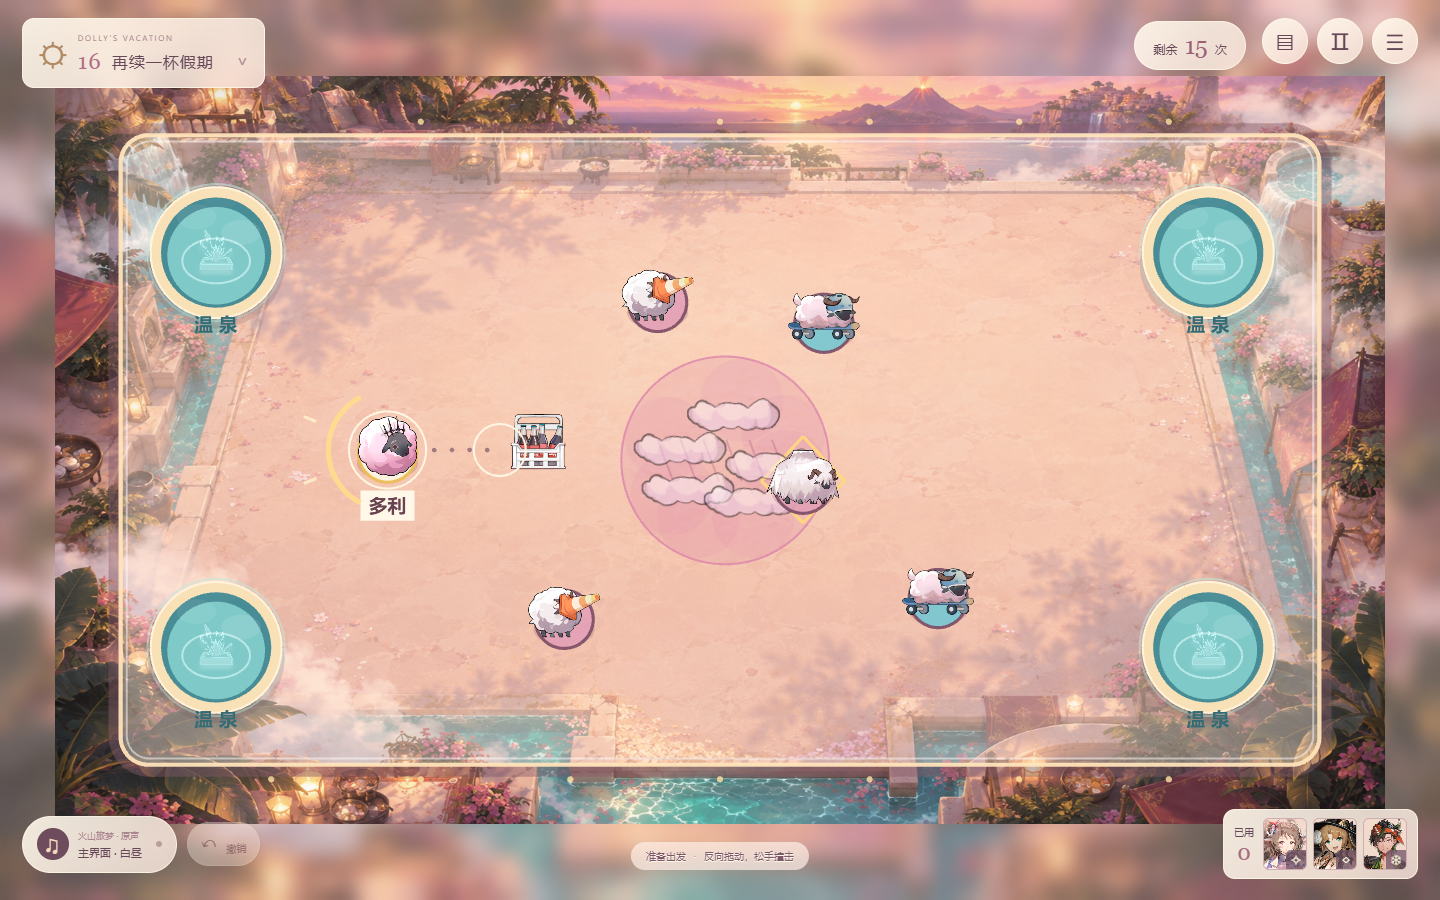
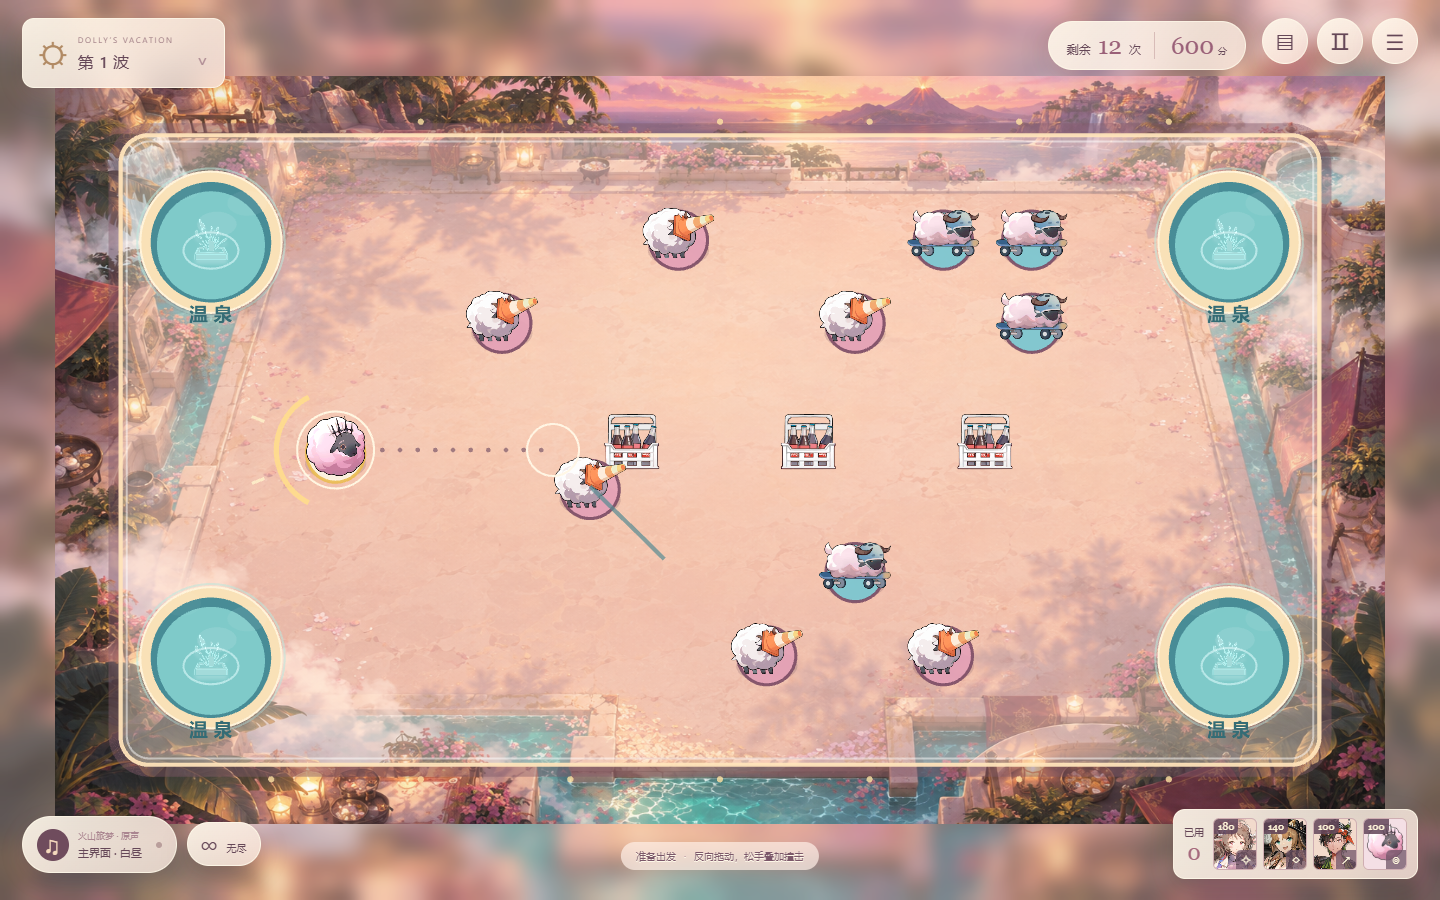
Document endless mode and refresh game screenshots

diff --git a/README.md b/README.md
@@ -1,34 +1,54 @@
 # 多利的假期 · Dolly’s Vacation
 
-以《明日方舟》「火山旅梦」为主题的免费同人 2D 碰撞游戏。控制多利，将毛绒绒的小羊送入温泉，和同行干员一起完成 16 站假日旅程。
+以《明日方舟》「火山旅梦」为主题的免费同人 2D 碰撞游戏。控制多利，把小羊送入温泉，用连锁爆破、双色水汽和高压水渠组合清场。
 
 **[开始游戏](https://midvoy.github.io/DollyVacation/)**
 
-![多利的假期：温泉场地与小羊](docs/screenshots/desktop.png)
+![无尽假期：温泉、羊群与连锁汽水](docs/screenshots/desktop.png)
 
 ## 操作方式
 
-1. 在场地内按住鼠标或触摸屏，朝想要前进方向的反方向拖动。
-2. 拖动距离决定撞击力度，松手后多利向前出发。蓄力条仅在拖动时显示。
-3. 将所有小羊送入任意温泉即可通关。所有泉口通用，无需区分小羊类型。
-4. 右上角可查看图鉴、暂停和打开菜单；左下角切换音乐或撤销上一次撞击。
+1. 在场地内按住鼠标或触摸屏，向前进方向的反方向拖动，松手施加撞击。拉得越远，冲量越大。
+2. 每次发射后 **10 秒**，或全场停稳后，即可再次发射。运动中补发会叠加原有动量；反向撞击也可用于刹车。多利周围的环显示冷却进度，球体下方不显示标签。
+3. 所有泉口通用。把目标小羊全部送入温泉，即可完成关卡或进入下一波。
+4. 左下角 **∞** 可直接进入无尽模式，无需通关。唱片按钮切换音乐；右上角查看图鉴、暂停或打开菜单。
 
-电脑支持方向键微调、空格撞击与 Esc 暂停。手机支持横竖屏游玩，界面上下各保留一行控件。
+电脑也支持方向键微调、空格撞击和 Esc 暂停。手机支持横竖屏，上下各保留一行主要控件。虚线表示叠加后的初始方向，不预测后续力场。游戏不提供撤销。
 
-## 玩法特点
+## 无尽假期
 
-- **16 关温泉旅程**：直线碰撞、池边反弹、连锁传力、汽水净化与护罩接力。
-- **不同特性的小羊**：温泉“淘气包”阻力均衡；温泉“流浪汉”阻力较低、滑行更远；“大个子”需要先撞破护罩。
-- **干员援助**：纯烬艾雅法拉净化水汽并免除当次多利落泉的额外消耗，琳琅诗怀雅放置反弹挡板，苍苔设置冷凝区。援助不限使用次数，首次使用后固定本关同行干员。
-- **场地与效果图鉴**：查看温泉、汽水、洋红蒸汽、纯白水汽、冷凝区和挡板的规则。
-- **活动原声**：5 首原版主界面与战斗 BGM，可切换曲目、调节音量并单曲循环。
-- **星级与存档**：完成关卡、控制撞击次数及达成额外挑战获得星星；进度和设置保存在当前浏览器。
+- 初始 **12 次撞击、600 积分、10 只小羊**。每波增加 2 只小羊，最多 28 只。
+- 清场补至至少 12 次，再奖励 2 次，最多保留 18 次；另奖励 **500 + 当前波次 × 100** 分，下一波自动开始。
+- 第 2 波加入巡逻移动温泉，第 3 波加入定时喷发的间歇泉，第 4 波起随机生成临时喷口，第 7 波起增加护罩羊密度。
+- 连入、反弹、爆破、水渠、引力、斥力、喷发与长距离入泉均可组合加分。最高积分和最高完成波次保存在当前浏览器。
+- 最后一次撞击最多继续结算 20 秒；全场停稳会提前结束。暂停时计时停止，多利落泉自动回到安全位置。
 
-第 4 关起，多利自己落泉会额外消耗一次撞击。每关可撤销一次。图鉴中的物理特性及援助效果属于本同人游戏的玩法改编。
+## 援助与机制
+
+四位援助可以混合使用，放置后立即生效。闯关模式援助免费且不限使用次数；无尽模式按下表扣除积分，按钮显示价格。
+
+| 援助 | 效果 | 无尽花费 |
+| --- | --- | ---: |
+| 纯烬艾雅法拉 | 点击空地部署连锁爆弹汽水；冲击波炸飞附近羊球并引爆相邻汽水 | 180 分 |
+| 琳琅诗怀雅 | 拖动绘制高压金币水渠，球沿绘制方向加速并修正路线 | 140 分 |
+| 苍苔 | 点击放置纯白水汽，持续向外推开球 | 100 分 |
+| 多利 | 点击放置洋红水汽，持续把羊群吸向中心 | 100 分 |
+
+援助水汽与水渠持续 18 秒。水渠支持曲线，柔和弯道更容易通过。为保持画面与性能，场上同时最多存在 16 瓶未引爆汽水、12 个援助水汽或水渠。
+
+温泉“淘气包”无额外特性；温泉“流浪汉”阻力较低、滑行更远；“大个子”的护罩完整时固定不动。**第一次撞击反弹并破罩，第二次命中才能推动大个子**；一轮连锁爆炸只破罩，不会立即推走它。
+
+入泉连击伴随粒子和升调短音效；护罩破碎、爆弹引爆及长途反弹入泉触发约 0.2 秒慢镜头与轻微震动。可在设置中关闭动态效果或短音效。5 首活动原版主界面与战斗 BGM 仍可自由切换。
+
+## 闯关与存档
+
+保留原有 16 关旅程、星级挑战和浏览器存档。第 4 关起，多利落泉会额外消耗 1 次撞击；无尽模式不额外扣次数。无尽记录与闯关星星分别保存，新开无尽不会清除星星。当前无尽对局不跨刷新恢复。
+
+图鉴收录全部小羊与场地效果，详细说明受力方向、护罩、喷发、花式积分和冷却规则。上述物理特性与技能均属于本同人游戏的玩法改编。
 
 ## 手机画面
 
-<p align="center"><img src="docs/screenshots/mobile.png" alt="手机竖屏游玩画面" width="320"></p>
+<p align="center"><img src="docs/screenshots/mobile.png" alt="手机竖屏无尽模式画面" width="320"></p>
 
 ## 版权与素材说明
 
